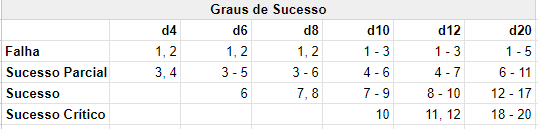
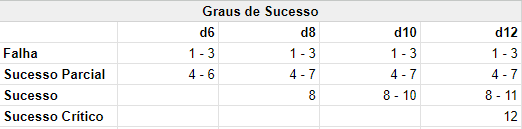
start at d6 and goes to d20. Changed statistics

Changed region(s): [[0.0, 0.0, 1.0, 1.0]]

diff --git a/docs/1_core/3_game/checks.md b/docs/1_core/3_game/checks.md
@@ -4,12 +4,12 @@ Checks também podem ser modificados por [dados caóticos](#dados-caóticos), [c
 
 #### Resultados
 
-|                 |  d4  |  d6   |  d8   |  d10  |  d12   |   d20   |
-| --------------- | :--: | :---: | :---: | :---: | :----: | :-----: |
-| Falha           | 1, 2 | 1, 2  | 1, 2  | 1 - 3 | 1 - 3  |  1 - 5  |
-| Sucesso Parcial | 3, 4 | 3 - 5 | 3 - 6 | 4 - 6 | 4 - 7  | 6 - 11  |
-| Sucesso         |      |   6   | 7, 8  | 7 - 9 | 8 - 10 | 12 - 17 |
-| Sucesso Crítico |      |       |       |  10   | 11, 12 | 18 - 20 |
+|                 |  d6   |  d8   |  d10   |  d12   |
+| --------------- | :---: | :---: | :----: | :----: |
+| Falha           | 1 - 3 | 1 - 3 | 1 - 3  | 1 - 3  |
+| Sucesso Parcial | 4 - 6 | 4 - 7 | 4 - 7  | 4 - 7  |
+| Sucesso         |       |   8   | 8 - 10 | 8 - 11 |
+| Sucesso Crítico |       |       |        |   12   |
 
 **Falha Crítica**  
 Pode acontecer somente quando [dados caóticos](#dados-caóticos) são introduzidos ao check.  
@@ -19,13 +19,13 @@ Falha Crítica acontece quando você <ins>falha</ins> no check e <ins>ao menos 1
 
 Abaixo segue os efeitos que as diferentes resoluções causam quando o check é realizado por um jogador que não seja o GM.
 
-| Resultado       | Narrativa                                                                                   | Mecânica                                                                                                                                    |
-| --------------- | ------------------------------------------------------------------------------------------- | ------------------------------------------------------------------------------------------------------------------------------------------- |
-| Sucesso Crítico | Você consegue o que quer e mais.                                                            | Você recupera 1 Stress. Em caso de ataque, você causa <ins>alto</ins> dano extra (veja [Calculando Dano](./damage.md#calculando-dano)). |
-| Sucesso         | Você consegue o que quer.                                                                   | Você causa <ins>moderado</ins> dano extra (veja [Calculando Dano](./damage.md#calculando-dano)).                                                       |
-| Sucesso Parcial | Você consegue o que quer porém enfrenta alguma consequência leve.                           | Você causa <ins>baixo</ins> dano extra (veja [Calculando Dano](./damage.md#calculando-dano)).                                                          |
-| Falha           | Você não consegue o que quer e deve enfrentar consequências moderadas.                      | -                                                                                                                                           |
-| Falha Crítica   | Catástrofe. Você não consegue o que quer e deve enfrentar alguma consequência grave. | Equipe recebe Karma, você recebe Stress e GM recebe Terror.                                                                                                   |
+| Resultado       | Narrativa                                                                            | Mecânica                                                                                                                                |
+| --------------- | ------------------------------------------------------------------------------------ | --------------------------------------------------------------------------------------------------------------------------------------- |
+| Sucesso Crítico | Você consegue o que quer e mais.                                                     | Você recupera 1 Stress. Em caso de ataque, você causa <ins>alto</ins> dano extra (veja [Calculando Dano](./damage.md#calculando-dano)). |
+| Sucesso         | Você consegue o que quer.                                                            | Você causa <ins>moderado</ins> dano extra (veja [Calculando Dano](./damage.md#calculando-dano)).                                        |
+| Sucesso Parcial | Você consegue o que quer porém enfrenta alguma consequência leve.                    | Você causa <ins>baixo</ins> dano extra (veja [Calculando Dano](./damage.md#calculando-dano)).                                           |
+| Falha           | Você não consegue o que quer e deve enfrentar consequências moderadas.               | -                                                                                                                                       |
+| Falha Crítica   | Catástrofe. Você não consegue o que quer e deve enfrentar alguma consequência grave. | Equipe recebe Karma, você recebe Stress e GM recebe Terror.                                                                             |
 
 ### Exemplo de Check
 
@@ -90,13 +90,17 @@ Sempre que houver uma disputa, para facilitar a resolução, informe seu grau de
 "Eu tive Sucesso Crítico com 6".
 
 ### Modificadores Situacionais
+
 Algumas situações, acontecimentos ou características do ambiente podem alterar a forma que você realiza um check, ou fazer você realizar um check.
 
 #### Ataque a distância com inimigos adjacentes
+
 Quando você for realizar algum ataque com um armamento que possua alcance maior que adjacente e houver criaturas adjacentes a você, o check é realizado com Desvantagem.
 
 #### Terreno difícil
+
 Escombros, pântanos e outras coisas podem tornar um terreno difícil de transversar. Caso seu personagem for mover para uma distância Muito Perto em um terreno difícil, ele deve realizar um check de Agilidade, se falhar move apenas metade do caminho. Para mover para distâncias Perto ou maior, o check de Agilidade deve ser realizado com Desvantagem.
 
 ### Checks Passivos
-Nem sempre o GM irá lhe pedir para realizar checks para saber se seu personagem avista alguma armadilha, lembra de alguma informação ou sente algum perigo. Para isso existe os checks passivos, onde você não irá rolar dados, seu dado de atributo irá dizer automaticamente se você sucede ou não. Por exemplo, o GM pode ter marcado que para avistar uma armadilha, você deve ter um d10 em Atenção, caso você possua d10 ou um dado maior no atributo requisitado, você é bem sucedido e consegue avistar a armadilha, caso contrário, você falha no check passivo e avistará a armadilha somente se você ativamente pedir "Quero procurar por armadilhas", ou quando for tarde demais. 
+
+Nem sempre o GM irá lhe pedir para realizar checks para saber se seu personagem avista alguma armadilha, lembra de alguma informação ou sente algum perigo. Para isso existe os checks passivos, onde você não irá rolar dados, seu dado de atributo irá dizer automaticamente se você sucede ou não. Por exemplo, o GM pode ter marcado que para avistar uma armadilha, você deve ter um d10 em Atenção, caso você possua d10 ou um dado maior no atributo requisitado, você é bem sucedido e consegue avistar a armadilha, caso contrário, você falha no check passivo e avistará a armadilha somente se você ativamente pedir "Quero procurar por armadilhas", ou quando for tarde demais.

diff --git a/docs/index.md b/docs/index.md
@@ -16,7 +16,7 @@ O jogo gira em torno do Game Master (GM) descrevendo uma **cena** e os jogadores
 
 ## Mecânicas
 
-BTH possui como mecânica de resolução Step Dice Pool-ish. Em resumo, personagens possuem atributos, como Físico e Agilidade, e vinculados a eles, um dado e dois **portões de caos**. Quanto mais eficaz um personagem em um atributo, maior será seu dado, começando em d4 e indo até d20. Este dado é conhecido como **dado principal**. Cada atributo possui dois portões de caos que podem ser abertos, cada um destes dando um dado adicional à pool e outros benefícios que variam para cada atributo. Estes dados são conhecidos como **dados caóticos** e adicionam regras extras aos checks de ações e cálculos de dano.
+BTH possui como mecânica de resolução Step Dice Pool-ish. Em resumo, personagens possuem atributos, como Físico e Agilidade, e vinculados a eles, um dado e dois **portões de caos**. Quanto mais eficaz um personagem em um atributo, maior será seu dado, começando em d6 e indo até d12. Este dado é conhecido como **dado principal**. Cada atributo possui dois portões de caos que podem ser abertos, cada um destes dando um dado adicional à pool e outros benefícios que variam para cada atributo. Estes dados são conhecidos como **dados caóticos** e adicionam regras extras aos checks de ações e cálculos de dano.
 
 Quando for necessário realizar um check para saber a resolução de uma ação de personagem, o GM irá informar qual dos atributos esta ação está vinculada, e então o jogador realizará um check. Checks consistem no jogador rolar um ou mais dados de acordo com o atributo definido, e então verificar o resultado dos dados rolados. Os possíveis resultados variam entre falha crítica, falha, sucesso parcial, sucesso e sucesso crítico. Dados caóticos podem influenciar no resultado do check de maneira positiva ou negativa.
 
@@ -52,7 +52,7 @@ Jogando outros sistemas de RPGs eu tive ideias de mecânicas que gostaria de exp
 
 ### Progresso -> Dados maiores e maior quantidade
 
-Uma ideia que vim pensando há um tempo é ter um feedback de senso de progressão de forma física, não apenas números em um papel ou dígitos em uma tela. No D&D usa uma mecânica de _Roll and Add_, onde você sempre rola um d20 e adiciona modificadores que são números inteiros, eu queria algo menos estático do que modificadores e uma progressão de dados. Acabei me deparando com as mecânicas de _Step Dice_ e _Dice Pool_. Resolvi unir ambas e agora seus atributos definem o tamanho do dado (Step Dice), podendo ir de 1d4 até 1d20, e a quantidade portões do caos abertas definem o número de dados caóticos, que são dados extras que influenciam na resolução. Com isso um novato pode acabar rodando 1d4, enquanto alguém mais avançado pode acabar rolando 3d12! Dando um senso de progresso bem alto, através de feedback físico: tamanho e quantidade de dados.
+Uma ideia que vim pensando há um tempo é ter um feedback de senso de progressão de forma física, não apenas números em um papel ou dígitos em uma tela. No D&D usa uma mecânica de _Roll and Add_, onde você sempre rola um d20 e adiciona modificadores que são números inteiros, eu queria algo menos estático do que modificadores e uma progressão de dados. Acabei me deparando com as mecânicas de _Step Dice_ e _Dice Pool_. Resolvi unir ambas e agora seus atributos definem o tamanho do dado (Step Dice), podendo ir de 1d6 até 1d12, e a quantidade portões do caos abertas definem o número de dados caóticos, que são dados extras que influenciam na resolução. Com isso um novato pode acabar rodando 1d6, enquanto alguém mais avançado pode acabar rolando 3d12! Dando um senso de progresso bem alto, através de feedback físico: tamanho e quantidade de dados.
 
 ### Remover "Set difficulty value"
 

diff --git a/docs/1_core/2_character/index.md b/docs/1_core/2_character/index.md
@@ -81,7 +81,7 @@ As espécies geralmente irão determinar as seguintes características de seu pe
 Neste passo você escolherá um ou dois atributos para avançar, estes que refletem o quão treinado ou habilidoso seu personagem é em uma das seis características principais: Físico, Agilidade, Controle, Atenção, Cérebro e Influência. Neste passo:
 
 1. Você pode aumentar o tamanho do dado ou abrir um portão do caos de um atributo.
-      1. Todas as espécies começam com d4 em todos os atributos, aumentar o tamanho de um dado seria aumentar o d4 para um d6, um d6 para um d8 e assim por diante.
+      1. Todas as espécies começam com d6 em todos os atributos, aumentar o tamanho de um dado seria aumentar o d6 para um d8, um d8 para um d10 e assim por diante.
       2. Caso você abra um portão do caos:  
             1. Separe um dado extra de cor diferente do dado principal e com o mesmo tamanho. Este será seu <ins>dado caótico</ins> e você irá rolá-lo sempre que precisar rolar seu dado principal.  
             2. Modifique as características influenciadas pelo portão do caos do atributo. Como por exemplo, para cada portão do caos aberto no atributo Físico, você ganha um ponto de Ferida permanentemente.

diff --git a/docs/1_core/2_character/example.md b/docs/1_core/2_character/example.md
@@ -74,7 +74,7 @@ A especialização de Batedor diz que você deve escolher seu Conhecimento Cient
 Neste passo Remella deve escolher atributos para avançar, ou seja, melhorar. Lembrando que neste passo você:
 
 1. Você pode aumentar o tamanho do dado ou abrir um portão do caos de um atributo.
-      1. Todas as espécies começam com d4 em todos os atributos, aumentar o tamanho de um dado seria aumentar o d4 para um d6, um d6 para um d8 e assim por diante.
+      1. Todas as espécies começam com d6 em todos os atributos, aumentar o tamanho de um dado seria aumentar o d6 para um d8, um d8 para um d10 e assim por diante.
       2. Caso você abra um portão do caos:  
             1. Separe um dado extra de cor diferente do dado principal e com o mesmo tamanho. Este será seu <ins>dado caótico</ins> e você irá rolá-lo sempre que precisar rolar seu dado principal.  
             2. Modifique as características influenciadas pelo portão do caos do atributo. Como por exemplo, para cada portão do caos aberto no atributo Físico, você ganha um ponto de Ferida permanentemente.

diff --git a/docs/1_core/2_character/advance.md b/docs/1_core/2_character/advance.md
@@ -1,9 +1,9 @@
 Aqui você encontra maiores informações sobre o impacto de aumentar o tamanho de um dado ou abrir um portão do caos de um atributo.
 
 ## Aumentar Dado
-Aumentar dado implica em você passar o dado do atributo para o próximo nível, por exemplo, se seu atributo tiver d4, você passa para d6, se tiver d6, você passa para d8 e assim por diante. Os possíveis valores estão abaixo:
+Aumentar dado implica em você passar o dado do atributo para o próximo nível, por exemplo, se seu atributo tiver d6, você passa para d8, se tiver d8, você passa para d10 e assim por diante. Os possíveis valores estão abaixo:
 
-d4 -> d6 -> d8 -> d10 -> d12 -> d20
+d6 -> d8 -> d10 -> d12
 
 ### Impacto
 Aumentar o tamanho de um dado impacta:
@@ -46,7 +46,6 @@ Desconsiderando dados caóticos.
 ![](../../0_assets/images/statistics/fail_success_odd.png)
 
 #### Chances de sucesso crítico com dados caóticos
-A última coluna e a soma das chances eu não tenho certeza quanto ao resultado.
 
 ![](../../0_assets/images/statistics/critical_success_odd.png)
 

diff --git a/docs/2_human/index.md b/docs/2_human/index.md
@@ -55,7 +55,7 @@ Você encontra as especializações em cada classe, mas são elas:
 Neste passo você irá aumentar o tamanho de dado de um atributo e abrir portão do caos.
 
 1. Escolha um atributo e aumente o <ins>tamanho do dado</ins>.  
-   Todas as espécies começam com d4 em todos os atributos, aumentar o tamanho de um dado seria trocar o d4 para um d6, um d6 para um d8 e assim por diante.
+   Todas as espécies começam com d6 em todos os atributos, aumentar o tamanho de um dado seria trocar o d6 para um d8, um d8 para um d10 e assim por diante.
 2. Escolha o mesmo atributo ou um atributo diferente para abrir um <ins>portão do caos</ins>.
    1. Separe um dado extra de cor diferente do dado principal. Este será seu <ins>dado caótico</ins> e você irá rolá-lo sempre que precisar rolar seu dado principal.
    2. Modifique as características influenciadas pelo portão do caos do atributo.

diff --git a/docs/2_human/weapons.md b/docs/2_human/weapons.md
@@ -3,7 +3,7 @@
 | Arco Composto     | 2    | Controle         | Longe           | 1d10 Físico |                           |
 | Cutelo do Chef    | 1    | Físico           | Adjacente/Perto |             | Carta                     |
 | Espingarda        | 2    | Controle         | Perto           | 2d8 Físico  | Recarregar                |
-| Faca de Combate   | 1    | Agilidade/Físico | Adjacente       | 1d4 Físico  |                           |
+| Faca de Combate   | 1    | Agilidade/Físico | Adjacente       | 1d6 Físico  |                           |
 | Lâmina Fragmento  | 0    | Agilidade        | Adjacente       | 1d8 Físico  | Defesa, Seguro            |
 | Mixer-Gun         | 1    | Controle         | Perto           |             | Carta, Recarregar         |
 | Omni-Gun          | 1    | Controle/Cérebro | Perto           | 1d6 Físico  | Munição Comum, Recarregar |

diff --git a/docs/2_human/companion.md b/docs/2_human/companion.md
@@ -6,7 +6,7 @@
 **Tamanho:** Pequeno.  
 **Movimento:** Terrestre, Muito Perto.  
 **Recursos:** 4 AP.  
-**Dano:** 1d4
+**Dano:** 1d6
 
 ### Ações
 
